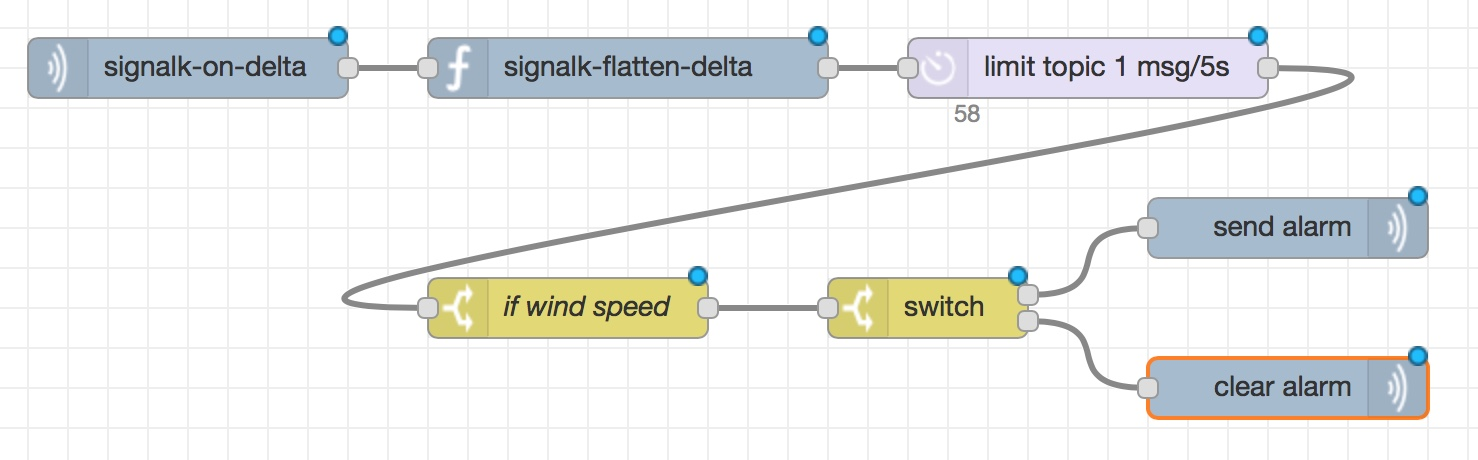
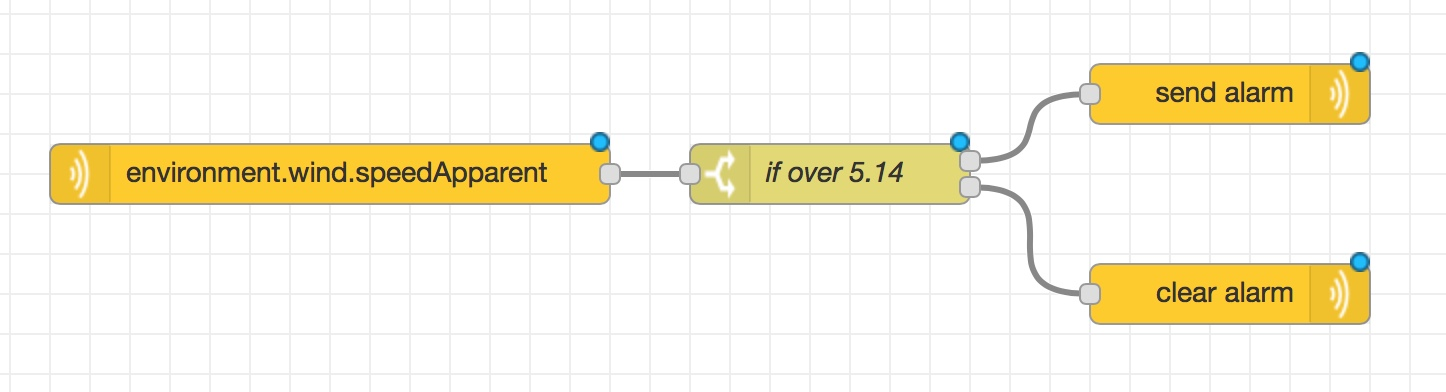
changes: major changes to the way deltas are flattened

diff --git a/signalk-on-delta.js b/signalk-on-delta.js
@@ -9,20 +9,41 @@ module.exports = function(RED) {
 
     function on_delta(delta) {
       if ( delta.updates ) {
-        var copy = JSON.parse(JSON.stringify(delta))
-        copy.updates = []
-        delta.updates.forEach(update => {
-          if ( update.values &&
-               (!update.$source || !update.$source.startsWith('signalk-node-red') )) {
-            copy.updates.push(update)
+        if ( delta.context === config.context ||
+             (config.context === 'vessels.self' &&
+              delta.context == app.selfContext) ) {
+          if ( typeof config.flatten === 'undefined' || !config.flatten ) {
+            var copy = JSON.parse(JSON.stringify(delta))
+            copy.updates = []
+            delta.updates.forEach(update => {
+              if ( update.values &&
+                   (!update.$source || !update.$source.startsWith('signalk-node-red') )) {
+                copy.updates.push(update)
+              }
+            })
+            
+            if ( copy.updates.length > 0 ) {
+              if ( copy.context == app.selfContext ) {
+                copy.context = 'vessels.self'
+              }
+              node.send({ payload: copy })
+            }
+          } else {
+            delta.updates.forEach(update => {
+              if ( update.values &&
+                   (!update.$source || !update.$source.startsWith('signalk-node-red') )) {
+                update.values.forEach(pathValue => {
+                  node.send({
+                    $source: update.$source,
+                    source: update.source,
+                    context: delta.context == app.selfContext ? 'vessels.self' : delta.context,
+                    payload: pathValue.value,
+                    topic: pathValue.path
+                  })
+              })
+              }
+            })
           }
-        })
-
-        if ( copy.updates.length > 0 ) {
-          if ( copy.context == app.selfContext ) {
-            copy.context = 'vessels.self'
-          }
-          node.send({ payload: copy })
         }
       }
     }

diff --git a/signalk-subscribe.js b/signalk-subscribe.js
@@ -25,20 +25,37 @@ module.exports = function(RED) {
 
     function on_delta(delta) {
       if ( delta.updates ) {
-        var copy = JSON.parse(JSON.stringify(delta))
-        copy.updates = []
-        delta.updates.forEach(update => {
-          if ( update.values &&
-               (!update.$source || !update.$source.startsWith('signalk-node-red') )) {
-            copy.updates.push(update)
+        if ( typeof config.flatten === 'undefined' || !config.flatten ) {
+          var copy = JSON.parse(JSON.stringify(delta))
+          copy.updates = []
+          delta.updates.forEach(update => {
+            if ( update.values &&
+                 (!update.$source || !update.$source.startsWith('signalk-node-red') )) {
+              copy.updates.push(update)
+            }
+          })
+          
+          if ( copy.updates.length > 0 ) {
+            if ( copy.context == app.selfContext ) {
+              copy.context = 'vessels.self'
+            }
+            node.send({ payload: copy })
           }
-        })
-
-        if ( copy.updates.length > 0 ) {
-          if ( copy.context == app.selfContext ) {
-            copy.context = 'vessels.self'
-          }
-          node.send({ payload: copy })
+        } else {
+          delta.updates.forEach(update => {
+            if ( update.values &&
+                 (!update.$source || !update.$source.startsWith('signalk-node-red') )) {
+              update.values.forEach(pathValue => {
+                node.send({
+                  $source: update.$source,
+                  source: update.source,
+                  context: delta.context == app.selfContext ? 'vessels.self' : delta.context,
+                  payload: pathValue.value,
+                  topic: pathValue.path
+                })
+              })
+            }
+          })
         }
       }
     }

diff --git a/signalk-on-delta.html b/signalk-on-delta.html
@@ -3,7 +3,9 @@
         category: 'input',
         color: '#ffcc01',
         defaults: {
-            name: {value:""}
+          name: {value:""},
+          context: {value: "vessels.self"},
+          flatten: {value: true},
         },
         inputs:0,
         outputs:1,
@@ -15,10 +17,18 @@
 </script>
 
 <script type="text/x-red" data-template-name="signalk-on-delta">
-    <div class="form-row">
+  <div class="form-row">
         <label for="node-input-name"><i class="icon-tag"></i> Name</label>
         <input type="text" id="node-input-name" placeholder="Name">
-    </div>
+  </div>
+  <div class="form-row">
+        <label for="node-input-context"><i class="icon-tag"></i> Context</label>
+        <input type="text" id="node-input-context" placeholder="Context">
+  </div>
+  <div class="form-row">
+        <label for="node-input-flatten"><i class="icon-tag"></i> Flatten</label>
+        <input type="checkbox" id="node-input-flatten" placeholder="Flatten">
+  </div>
 </script>
 
 <script type="text/x-red" data-help-name="signalk-on-delta">

diff --git a/signalk-flatten-delta.html b/signalk-flatten-delta.html
@@ -24,14 +24,15 @@
 <script type="text/x-red" data-help-name="signalk-flatten-delta">
   <p>Function that flatten deltas from signalk-on-delta.</p>
 
-  <p>The output payload with be have path, value, source and context:</p>
+  <p>The output payload will be the value and the topic will be the path, The payload will also include context, $source, and source. </p>
 
 <pre><code class="javascript">
-{
-  "path":"navigation.speedOverGround",
-  "value":2.45,
-  "source":{"label":"actisense","type":"NMEA2000","pgn":129026,"src":"3",
-  "context": "vessels.self"
-}
+  {
+    "topic": "navigation.speedOverGround",
+    "payload": 2.45,
+    "source": {"label":"actisense","type":"NMEA2000","pgn":129026,"src":"3"},
+    "context": "vessels.self",
+    "$source": "actisense.3"
+  }
 </code></pre>
 </script>

diff --git a/signalk-subscribe.html b/signalk-subscribe.html
@@ -4,6 +4,7 @@
         color: '#ffcc01',
         defaults: {
           name: {value:""},
+          flatten: {value: true},
           context: {value:"vessels.self"},
           path: {value:""},
           period: {value: 1000}
@@ -21,6 +22,10 @@
     <div class="form-row">
         <label for="node-input-name"><i class="icon-tag"></i> Name</label>
         <input type="text" id="node-input-name" placeholder="Name">
+  </div>
+  <div class="form-row">
+        <label for="node-input-flatten"><i class="icon-tag"></i> Flatten</label>
+        <input type="checkbox" id="node-input-flatten" placeholder="Flatten">
   </div>
   <div class="form-row">
         <label for="node-input-context"><i class="icon-tag"></i> Context</label>

diff --git a/signalk-flatten-delta.js b/signalk-flatten-delta.js
@@ -10,10 +10,13 @@ module.exports = function(RED) {
         delta.updates.forEach(update => {
           if ( update.values ) {
             update.values.forEach(pathValue => {
-              pathValue.$source = update.$source
-              pathValue.source = update.source
-              pathValue.context = delta.context
-              node.send({ payload: pathValue, topic: pathValue.path})
+              node.send({
+                $source: update.$source,
+                source: update.source,
+                context: delta.context,
+                payload: pathValue.value,
+                topic: pathValue.path
+              })
             })
           }
         })

diff --git a/signalk-send-pathvalue.js b/signalk-send-pathvalue.js
@@ -12,7 +12,10 @@ module.exports = function(RED) {
         updates: [
           {
             values: [
-              msg.payload
+              {
+                value: msg.payload,
+                path: msg.topic
+              }
             ]
           }
         ]

diff --git a/README.md b/README.md
@@ -21,24 +21,25 @@ See the examples folder for some sample usage.
 
 ## signalk-on-delta
 
-Input that sends messages for every delta the server receives
+Input that sends messages for every delta the server receives. Optionally flatten the deltas (see signalk-flatten-delta below)
 
 ## signalk-subscribe
 
-Input that sends messages for every delta from the given path
+Input that sends messages for every delta from the configured path. Optionally flatten the deltas (see signalk-flatten-delta below)
 
 ## signalk-flatten-delta
 
 Function that flatten deltas from signalk-on-delta.
 
-The output payload with be have path, value, source and context:
+The output payload will be the value and the topic will be the path, The payload will also include context, $source, and source.
 
 ```
 {
-  "path":"navigation.speedOverGround",
-  "value":2.45,
-  "source":{"label":"actisense","type":"NMEA2000","pgn":129026,"src":"3",
-  "context": "vessels.self"
+  "topic": "navigation.speedOverGround",
+  "payload": 2.45,
+  "source": {"label":"actisense","type":"NMEA2000","pgn":129026,"src":"3"},
+  "context": "vessels.self",
+  "$source": "actisense.3"
 }
 ```
 
